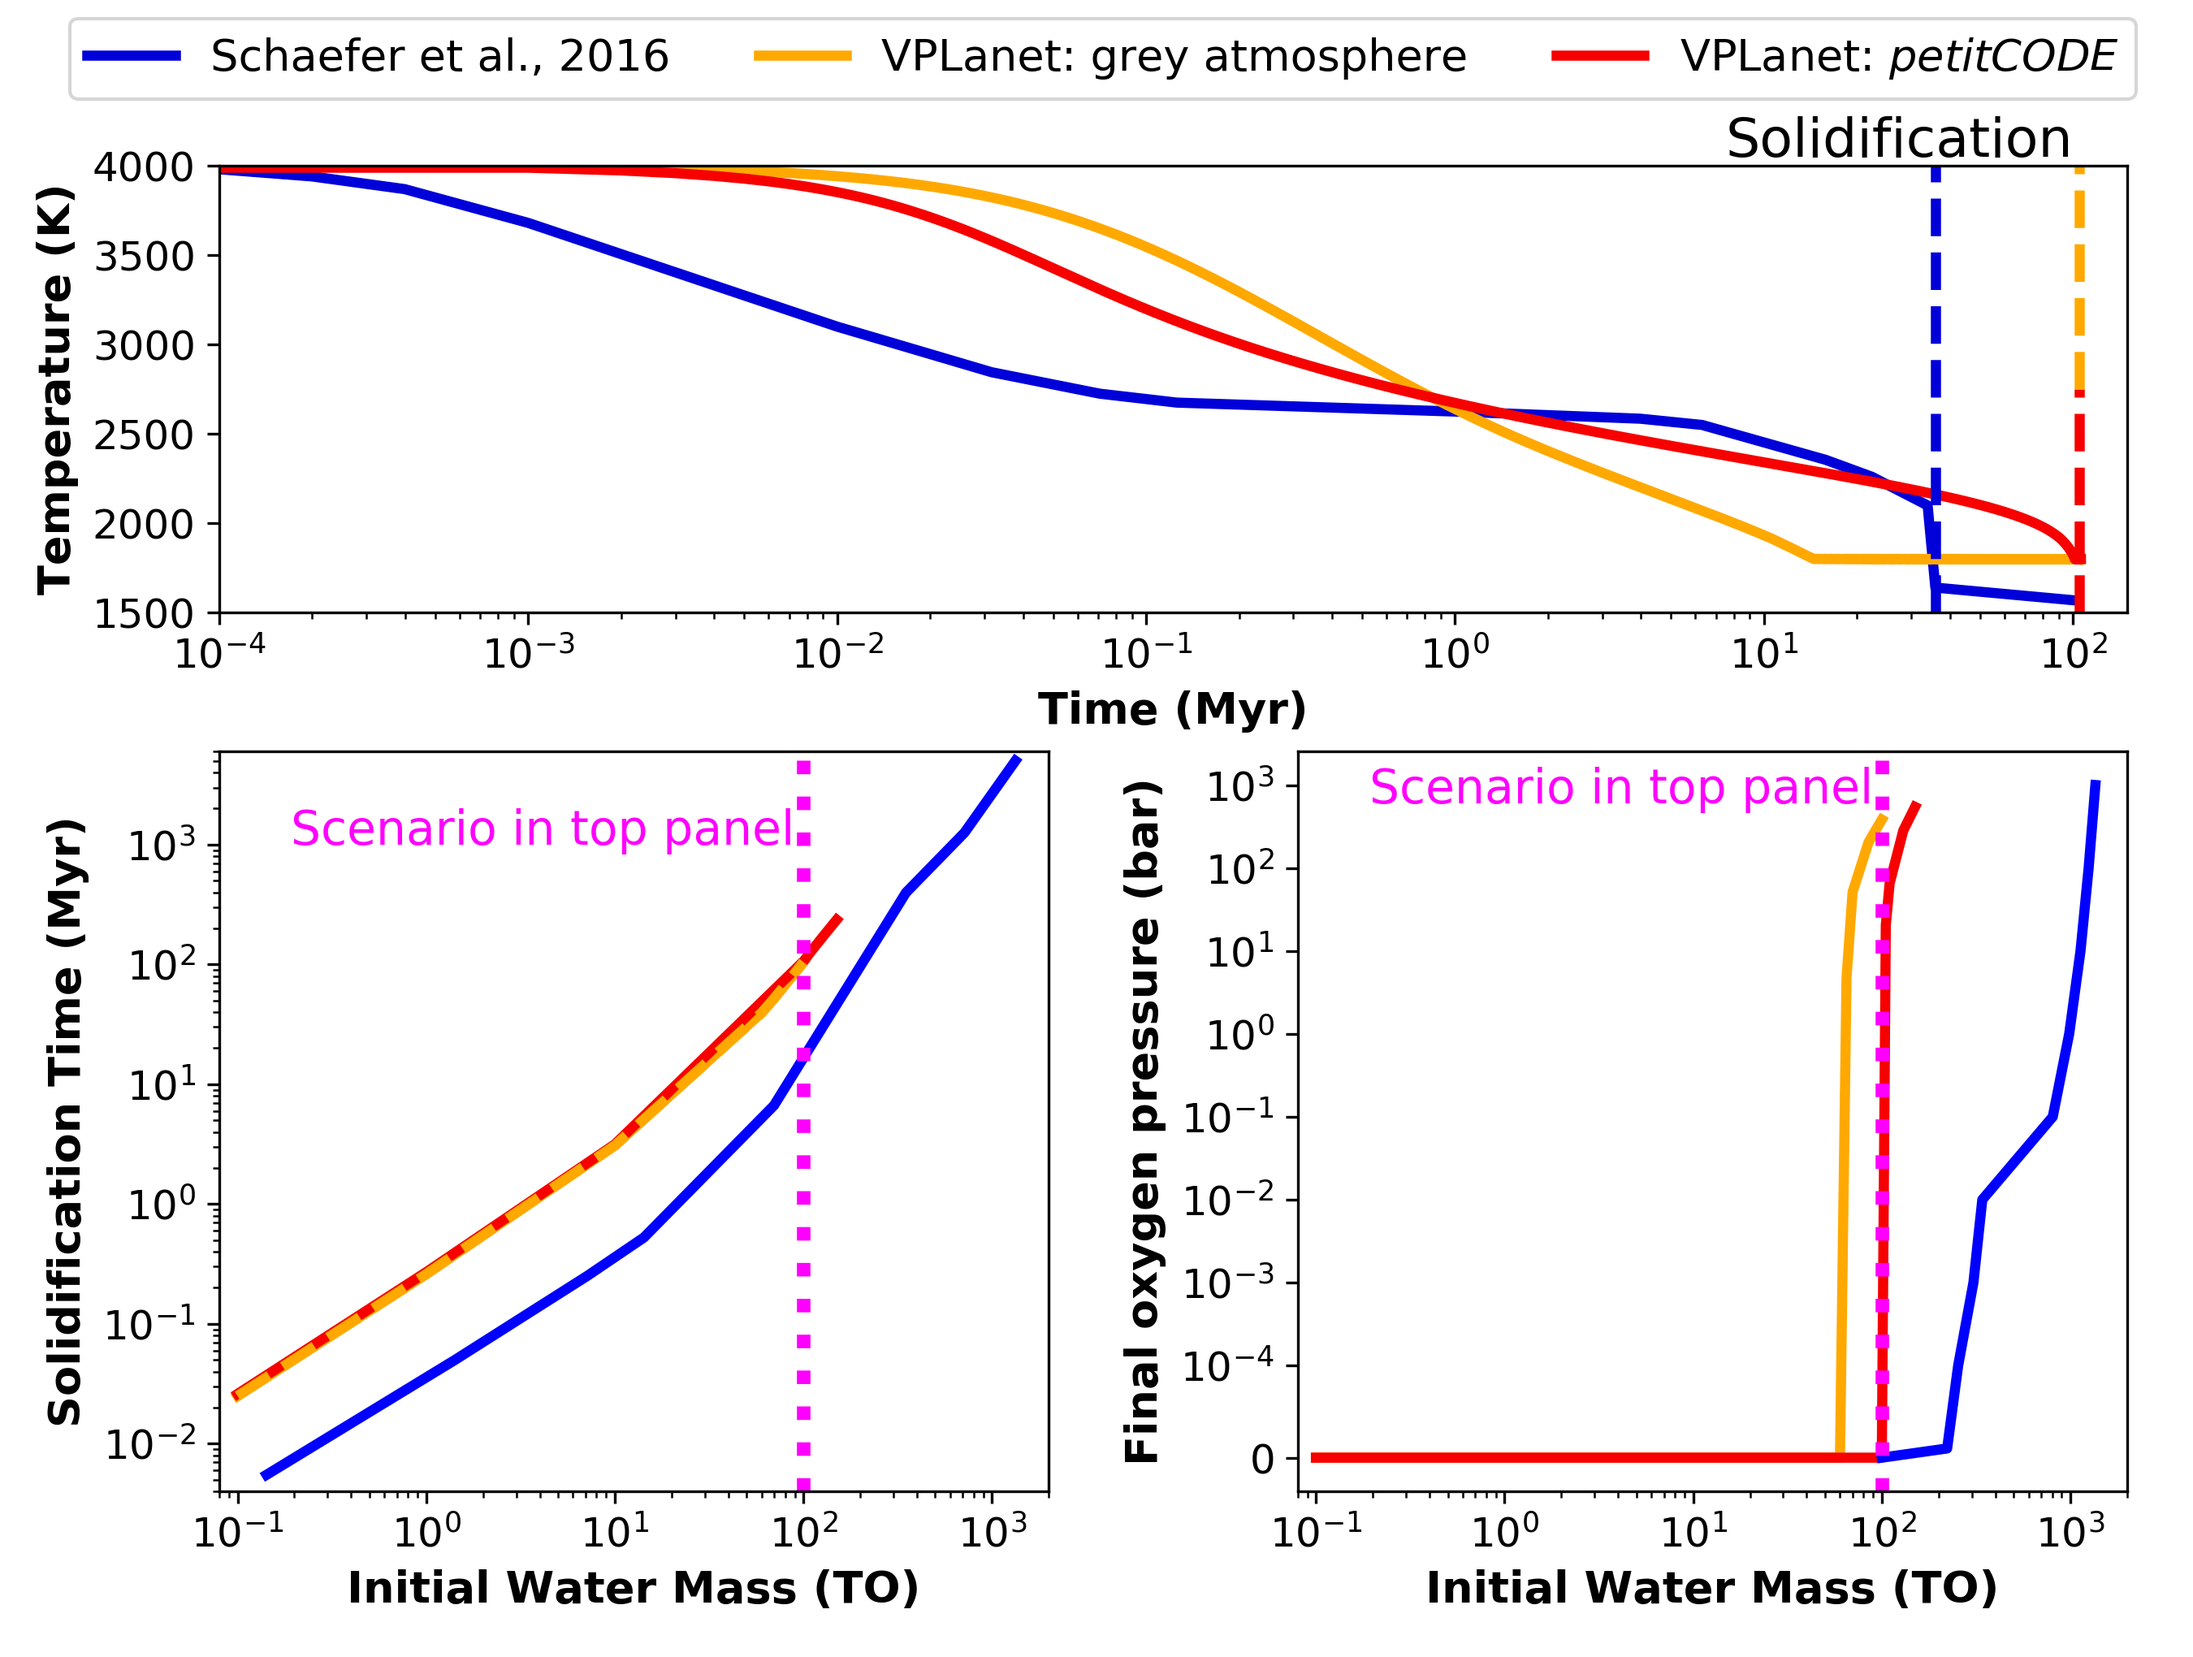
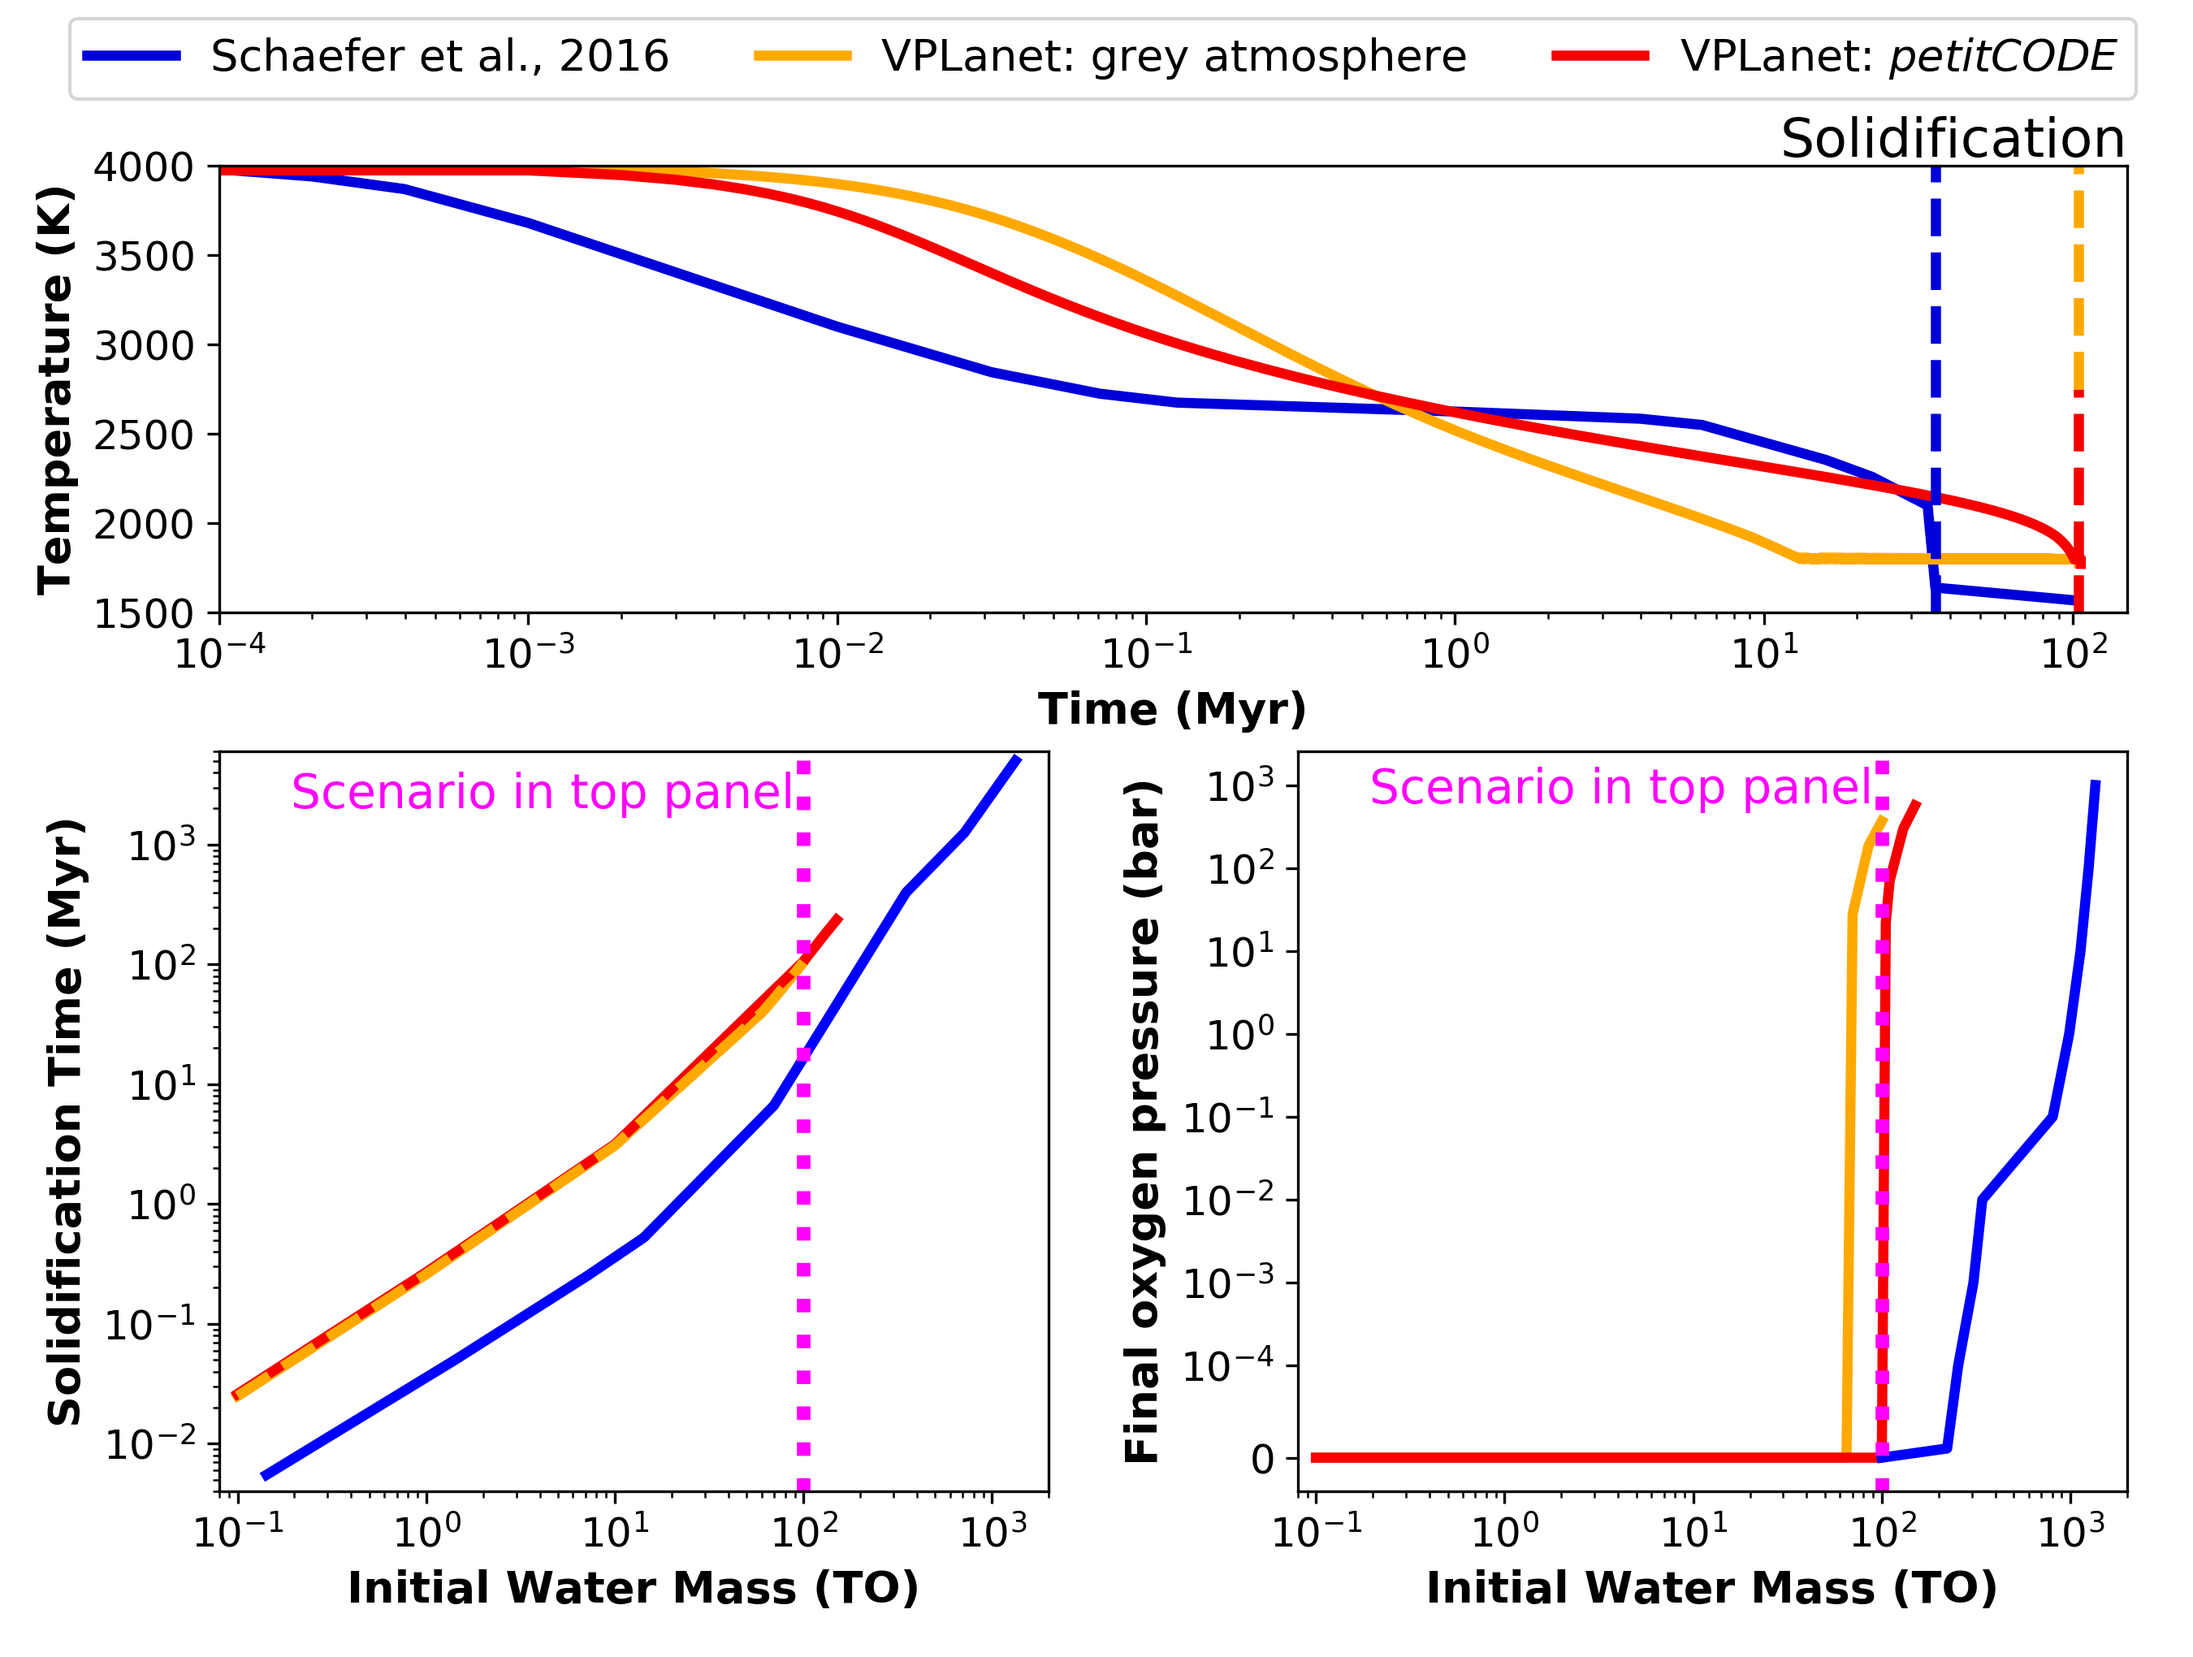
updated GJ1132b Figure

diff --git a/Fig_Temp_GJ1132b/Valid_GJ1132b_100TO.py b/Fig_Temp_GJ1132b/Valid_GJ1132b_100TO.py
@@ -17,14 +17,14 @@ import matplotlib as mpl
 ## Enter results for grey atmosphere simulations:
 # initial water masses in this order:
 #               0.1,    1,   10,   60,   65,   70,   85,   100
-Oxy_grey   = [    0,    0,    0,    0, 4.73, 51.3,  204,   383] # final oxygen pressure [bar]
-Tsol_grey  = [0.025, 0.26, 3.08, 39.5, 45.6, 52.3, 75.8, 104.7] # solidification time [Myr]
+Oxy_grey   = [    0,    0,    0,    0,    0, 27.7,  185,   367] # final oxygen pressure [bar]
+Tsol_grey  = [0.025, 0.26, 3.08, 39.5, 45.6, 52.3, 75.7, 104.7] # solidification time [Myr]
 
 ## Enter results for petitCODE atmosphere simulations:
 # initial water masses in this order:
 #               0.1,    1,   10,   100,  105,  110, 130, 150
-Oxy_petit  = [    0,    0,    0,     0, 20.5, 65.1, 283, 545] # final oxygen pressure [bar]
-Tsol_petit = [0.026, 0.27, 3.15, 106.3,  117,  129, 179, 236]
+Oxy_petit  = [    0,    0,    0,     0, 22.0, 69.6, 298, 567] # final oxygen pressure [bar]
+Tsol_petit = [0.026, 0.27, 3.15, 106.1,  117,  128, 179, 236]
 
 #------------------------------------------------------------------------------#
 # NO CHANGES BELOW!
@@ -100,7 +100,7 @@ ax1.axvline(x=time_petit[len(time)-1]*1e-6,           ymax=0.5, color=cmap(220),
 ax1.axvline(x=time[len(time)-1]*1e-6,       ymin=0.5, ymax=1,   color=cmap(200), linestyle='--')
 ax1.axvline(x=10**1.555,                                        color=cmap(50),  linestyle='--')
 
-ax1.text(100, 4050, 'Solidification', ha='right', fontsize=16)
+ax1.text(150, 4050, 'Solidification', ha='right', fontsize=16)
 ax1.legend(loc='lower left', bbox_to_anchor= (-0.09, 1.1), ncol=3, frameon=True, fontsize=13)
 
 # ax1.legend(loc='best', frameon=True, fontsize=12)
@@ -132,7 +132,7 @@ ax3.plot(Water_grey, Tsol_grey, label='VPLanet: grey atmosphere', color=cmap(200
 ax3.plot(Water_petit, Tsol_petit, label='VPLanet: petitCODE', color=cmap(220), linewidth=3.0)#, linestyle=':')
 ax3.plot(Water_grey, Tsol_grey, color=cmap(200), linewidth=3.0, linestyle='--')
 ax3.axvline(x=100,         linewidth=4, color='magenta', linestyle=':')
-ax3.text(90,1e3,'Scenario in top panel',color='magenta',fontsize=14,ha='right')
+ax3.text(90,2e3,'Scenario in top panel',color='magenta',fontsize=14,ha='right')
 
 # ax3.legend(frameon=True, fontsize=14, loc='lower right', bbox_to_anchor= (1, 1.02e4), ncol=3)
 ax3.set_xlabel('Initial Water Mass (TO)')

diff --git a/Fig_Temp_GJ1132b/README.rst b/Fig_Temp_GJ1132b/README.rst
@@ -48,7 +48,7 @@ type
 
 .. code-block:: bash
 
-    python Temp_GJ1132b_100TO.py
+    python Valid_GJ1132b_100TO.py
 
 Expected output
 ---------------
